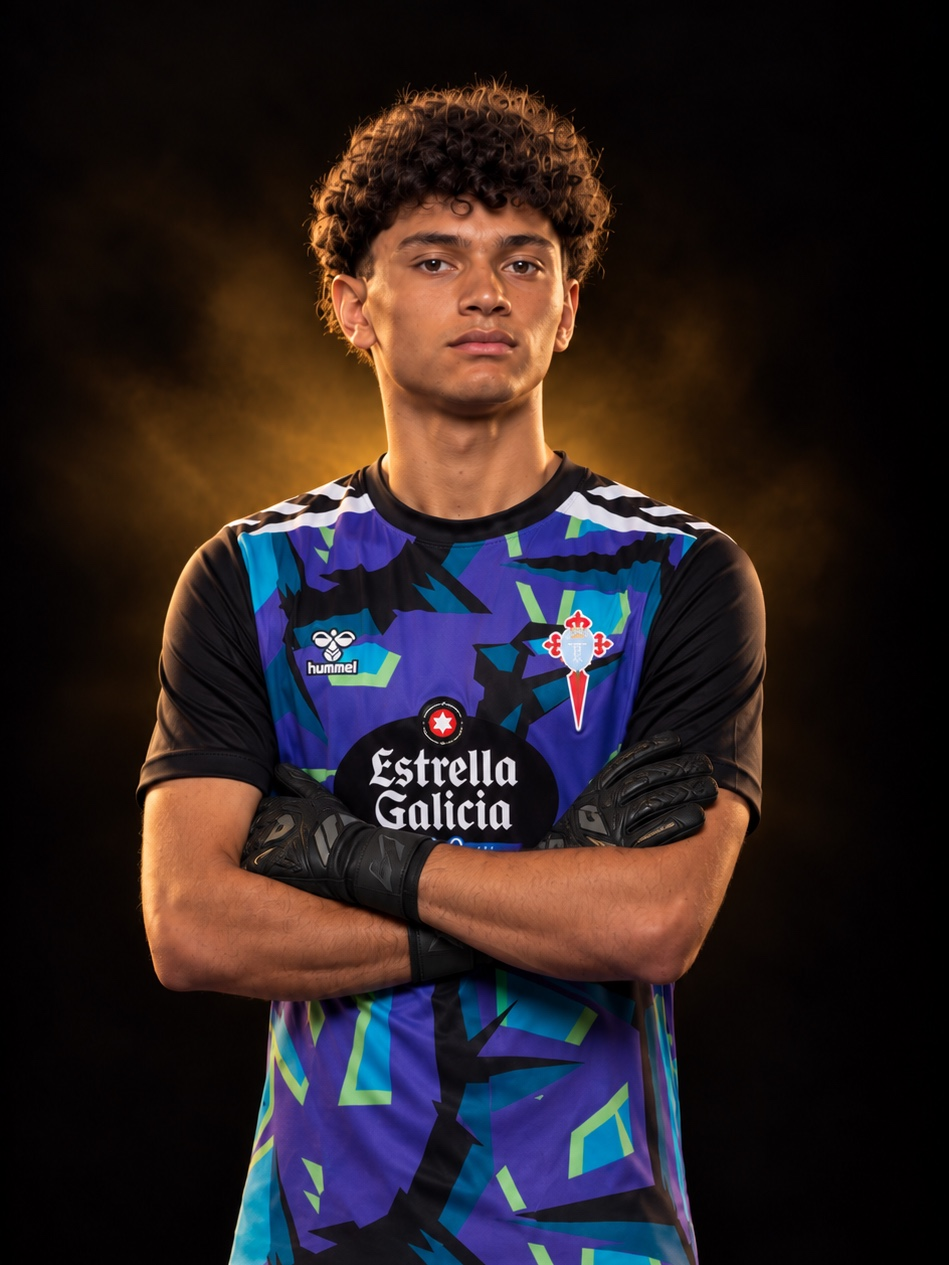
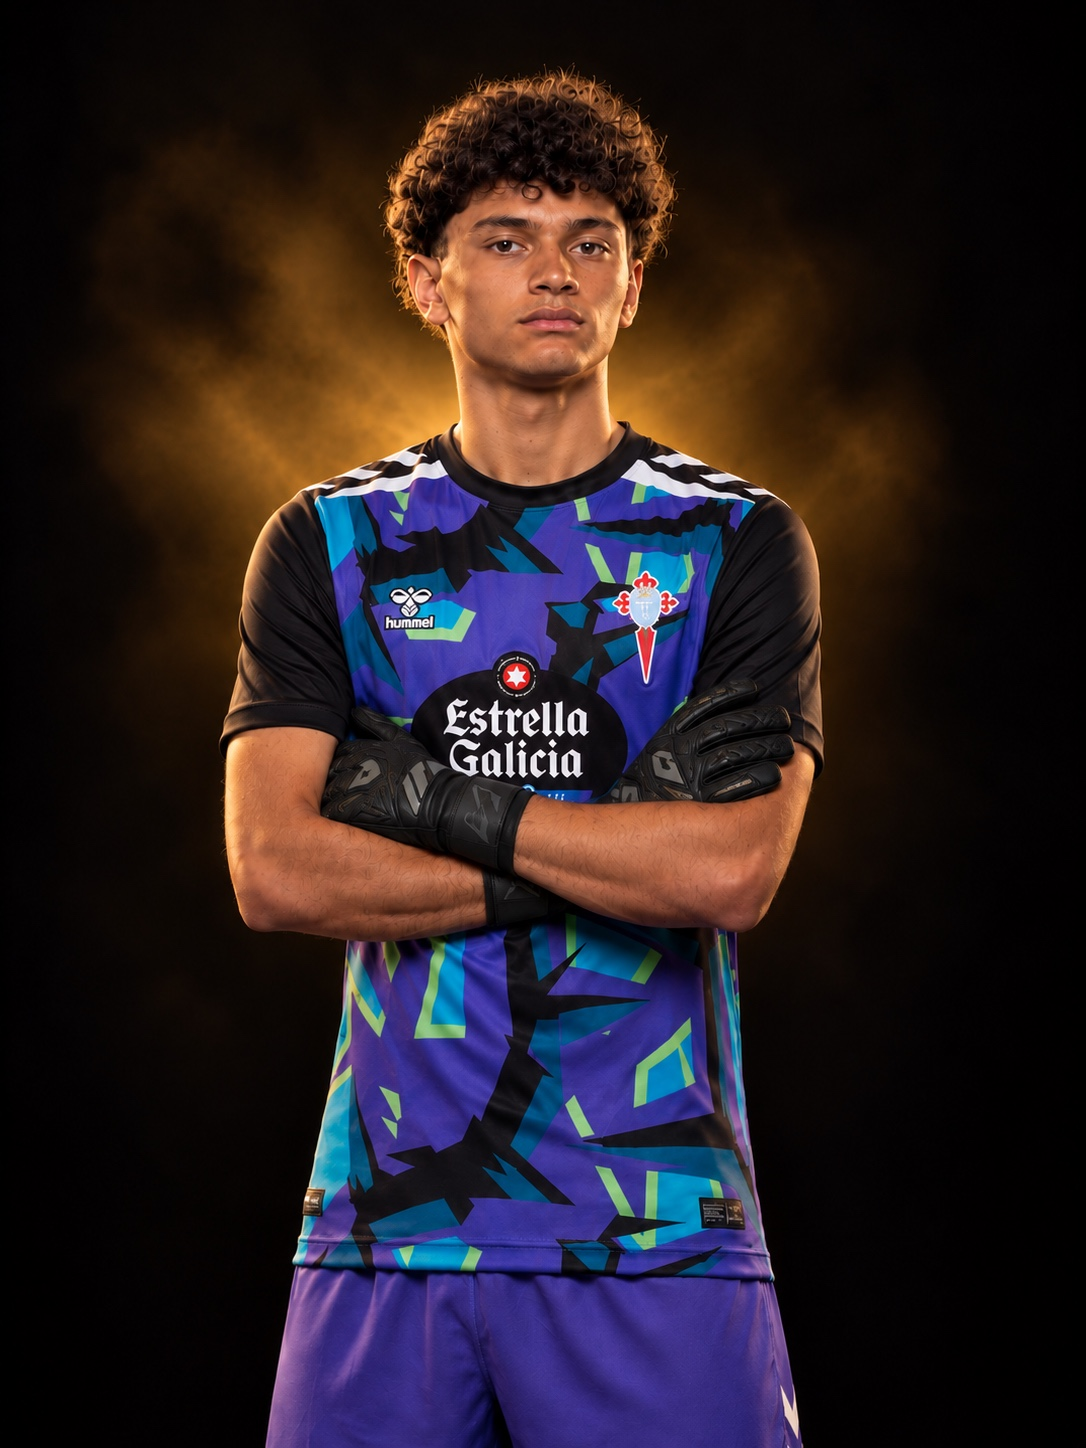
roster: Isaías Abuabara con su foto de estudio a la medida de la serie
Mario la reexportó a 3:4 y ya no hace falta el recorte provisional: sale al
mismo tamaño que el resto de la Cantera.

diff --git a/ARCHITECTURE.md b/ARCHITECTURE.md
@@ -219,7 +219,9 @@ sin perfil de color, con el nombre `<Nombre> Web.png`:
 5. **Si llega con otra proporción, recortarla a 3:4 antes** (a todo el ancho y
    dejando sobre la cabeza el mismo aire que el resto de la serie), y avisar a Mario.
    La tarjeta recorta centrado: la de Isaías Abuabara llegó a 949×1658 y así le
-   habría cortado el pelo; se recortó a 949×1265 desde y=45 (2026-10-16).
+   habría cortado el pelo. Se recortó a 3:4 de forma provisional, pero salía más
+   grande que el resto porque la toma era más cerrada; lo bueno es pedir a Mario que
+   la exporte con la medida de la serie, como hizo ese mismo día (2026-10-16).
 
 **Renombrar a un jugador le quita la foto.** El archivo se busca por
 `slugify(row.name)`: pasar de `"Eneko"` a `"Eneko Ortiz"` busca `eneko-ortiz.jpeg` en
